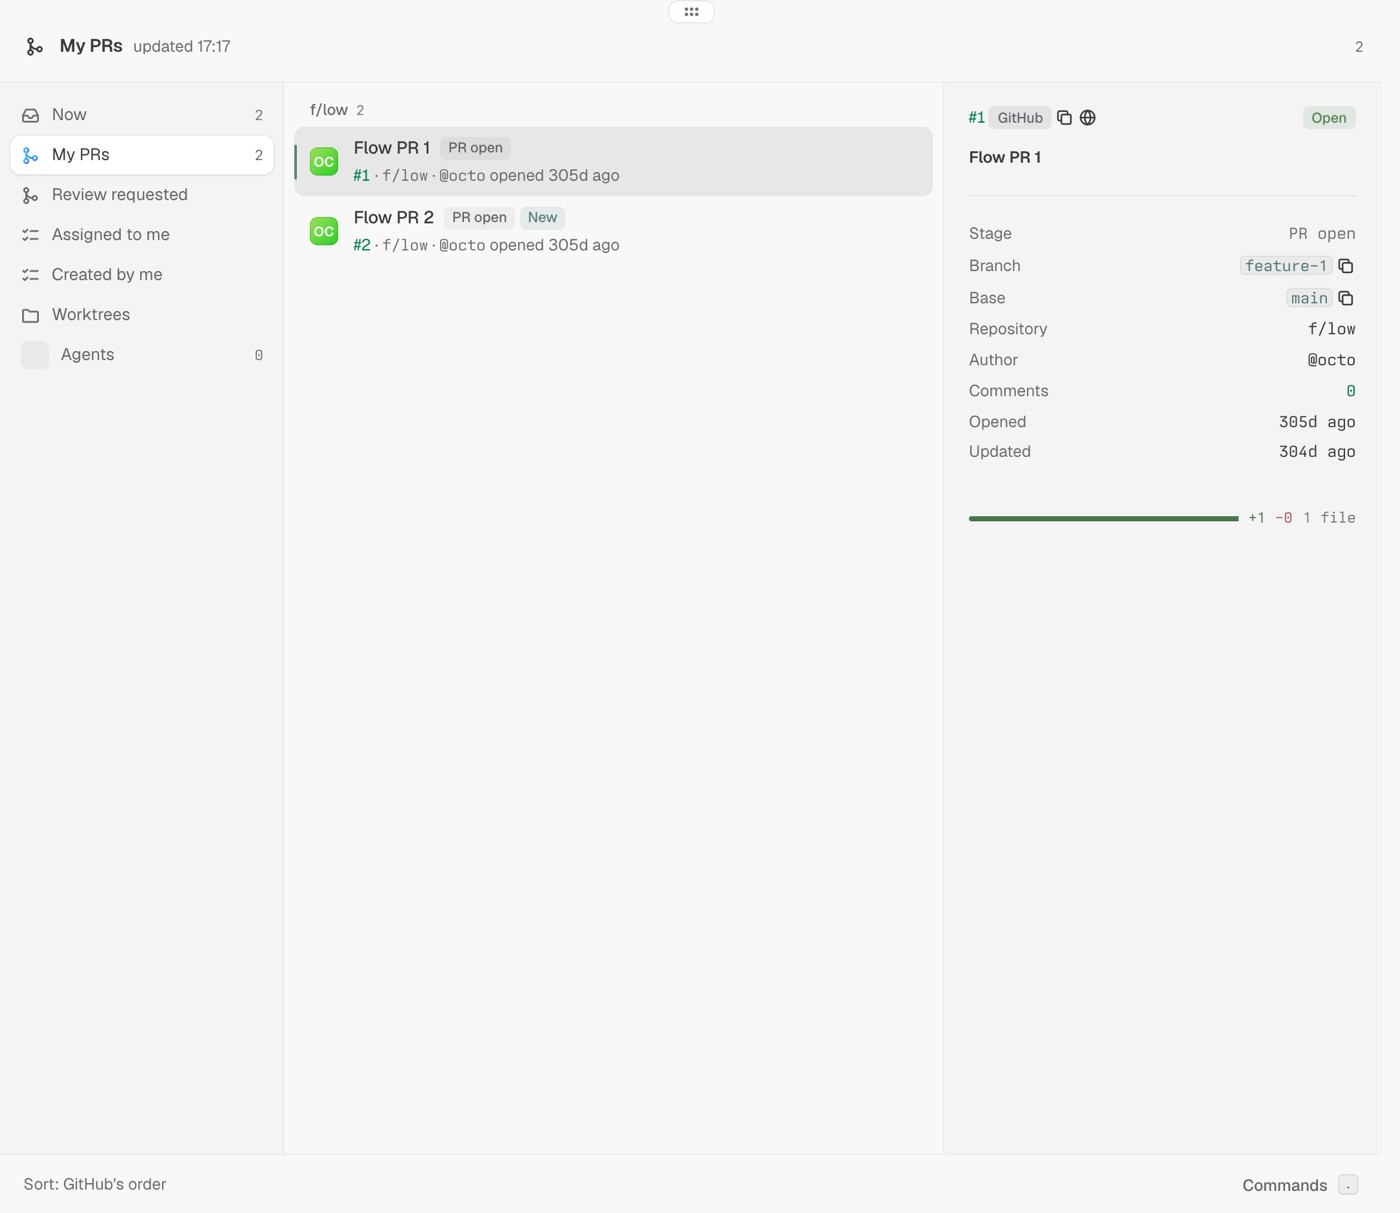
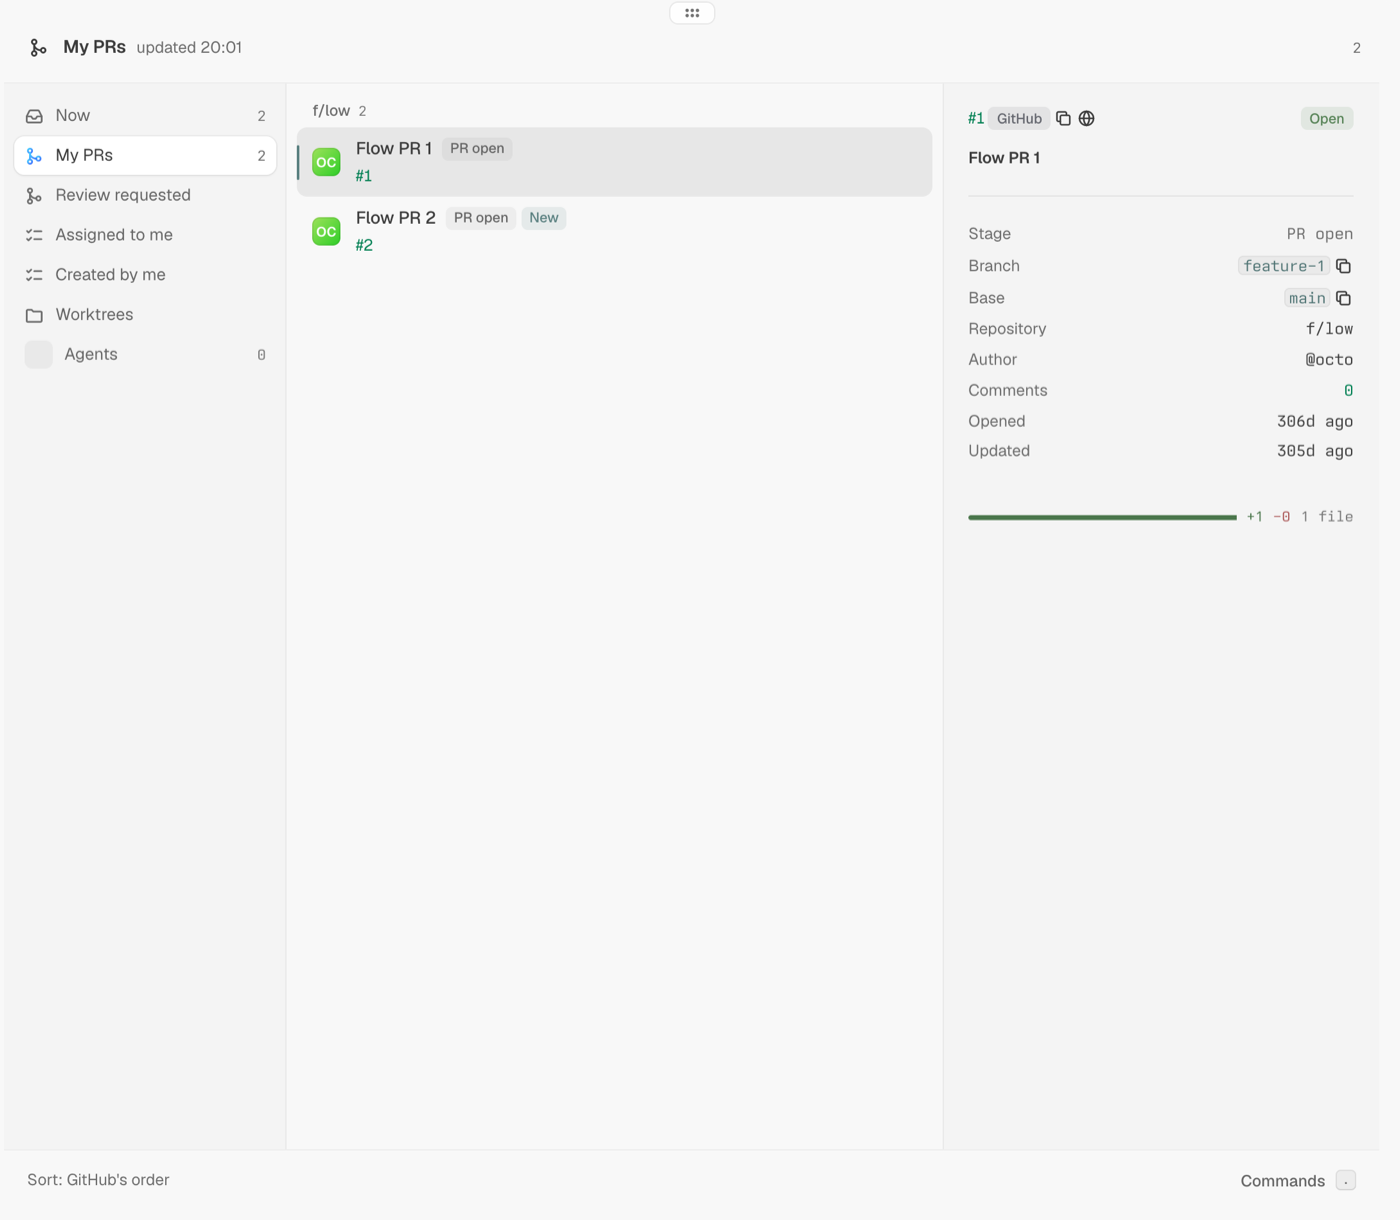
feat: queue rows show only what decides at the list level: one blocking reason, the repository only across repositories; age, labels, review, check counts and In tab are the preview's (tern-plotroom#yxak)

diff --git a/docs/reference.md b/docs/reference.md
@@ -70,7 +70,8 @@ Commands' item rows also offer **Copy link**, **Copy number** (`#N`, or the Jira
 
 ## Triage
 
-- **Every item shows its stage.** Each row's first badge, and the preview's first fact, is where the item stands, derived on every render from what GitHub, Jira, git and its agent already said (nothing about it is saved). Highest first: **Merged** or **Closed** (a Jira issue in a Done status is Closed); **Needs you** (its agent waits for input, or is idle after a turn whose end-of-run report says `stuck` or `needs-human`, whose outcome is Not verified, or whose check failed); **Agent working**; **Blocked** (a PR with changes requested, conflicts, or failing checks GitHub's merge state does not call optional; hovering says which); **Ready to merge** (approved, checks passing or none, and GitHub's merge state is clean); **PR open** (any other open PR, and an issue whose worktree branch has an open PR, known once its preview has loaded the details); **Worktree** (an issue with a Plotroom worktree and no PR; the badge takes the worktree's tone and summary); **Not started**. A merge state GitHub has not computed yet never makes Ready to merge. The stage replaces the row badges that said the same (Merged, a plain Closed, the Worktree badge of an item at Worktree, the Working and Needs input agent badges) and keeps In tab, New, Changed, Snoozed, Draft, why an issue closed and a Jira status.
+- **Every item shows its stage.** Each row's first badge, and the preview's first fact, is where the item stands, derived on every render from what GitHub, Jira, git and its agent already said (nothing about it is saved). Highest first: **Merged** or **Closed** (a Jira issue in a Done status is Closed); **Needs you** (its agent waits for input, or is idle after a turn whose end-of-run report says `stuck` or `needs-human`, whose outcome is Not verified, or whose check failed); **Agent working**; **Blocked** (a PR with changes requested, conflicts, or failing checks GitHub's merge state does not call optional; the row's detail says which); **Ready to merge** (approved, checks passing or none, and GitHub's merge state is clean); **PR open** (any other open PR, and an issue whose worktree branch has an open PR, known once its preview has loaded the details); **Worktree** (an issue with a Plotroom worktree and no PR; the badge takes the worktree's tone and summary); **Not started**. A merge state GitHub has not computed yet never makes Ready to merge. The stage replaces the row badges that said the same (Merged, a plain Closed, the Worktree badge of an item at Worktree, the Working and Needs input agent badges) and keeps New, Changed, Snoozed, Draft, why an issue closed and a Jira status.
+- **A row shows only what decides at the list level.** The title; the author once, as the mark on the left; the number (a Jira key), then the repository only when the view's rows span more than one; for a Blocked PR the one thing that blocks it (**Conflicts with its base**, else **Changes requested**, else **Checks failing**); a Jira issue's type. Badges: the stage, the agent's state when the stage does not say it, the run's checked outcome and the checker's verdict, **New**/**Changed**/**Snoozed**, **Worktree**, **Draft**, a Jira status or why an issue closed. The age, the review, check counts, labels and **In tab** are the preview's (its facts, Reviewers and Checks sections, and chips), so no fact is said twice in a row.
 - **The selected item suggests its next move.** Its stage picks one move, shown as the first Commands row under **Next** (named as the move) and as a button at the top of the preview, below the title: **Worktree** for a Not started issue; the **Review** action for someone else's open PR that asks for your review (as the view's login, by name; a team request does not count); **Go to agent** at Needs you or Agent working; at Blocked, the **Address feedback** action for your PR with changes requested, else **Re-run failed checks** while a run failed; **Merge…** at Ready to merge; **Ready for review…** for your draft PR; **Draft PR…** for an issue at Worktree; **Remove worktree…** for a Merged or Closed item that has a worktree. A move runs exactly as its own command does, its confirm included, and is offered only where that command is (an action only while it is offered under the view with that name). When nothing applies (an open PR waiting on others, a closed item with no worktree), nothing is shown. The queue action **Next move** runs it; it has no default key, and the one-key set binds it to `x`.
 - **Seen is automatic; snooze is local.** Each item shows **New** (never seen) or **Changed** (its state, title, review, checks, head, comments, labels or assignees differ from when it was last seen). An item is marked seen when it is selected and its preview is shown in a view, and again if a refresh changes it while it stays shown; a background fetch, Now and Worktrees never mark anything. **Mark seen** stays in Commands to do it by hand. **Snooze until tomorrow** holds an item until 08:00 local time on the next calendar day, even when it is still early morning (a **Snoozed** badge when listed with **Show or hide snoozed**). An agent waiting for input surfaces its item even when snoozed. Seen and snooze state is per machine (kv `triage`).
 - **Now and Show or hide snoozed survive a restart.** Both are saved with the pane and come back with it.

diff --git a/CHANGELOG.md b/CHANGELOG.md
@@ -36,6 +36,7 @@ All notable changes to Plotroom are recorded here. The format follows [Keep a Ch
 - Tern's palette lists only Plotroom: Open, Open item by URL, Message an agent with the selection… and Go to the first agent that needs input. Every other Plotroom command stays in Commands (`.`) with its key, and stays runnable by its action name `plugin.plotroom.<id>` (key binds, `tern ctl plugins run`).
 - README.md is a product page (who Plotroom is for, the loop, screenshots, install and first run); the full behavior spec moved, unchanged, to [docs/reference.md](docs/reference.md), ordered by the loop's steps.
 - UI text uses only PRODUCT.md's glossary: **Commands** (the `.` menu, its first group **Actions**), **Worktrees**, **Needs attention only**, **Snooze until tomorrow**, **Open** and **Open Git view**, and **Checkout** for the repository's main clone (an action's Runs in reads Worktree / Checkout; the shell lens offers Show in Plotroom, Copy, Open). Commands rows show an action's first line filled for the selected item, or no detail, never `{placeholders}`; the duplicate-agent offer names the action, not a pane; the protocol warning reads "Plotroom on <host> is a different version from this window's". Pickers say what Enter does; a GitHub view with no sort reads "Sort: GitHub's order"; the narrow layout's view dropdown no longer repeats the view's name as the title.
+- Queue rows show only what decides at the list level: the title, the author once (the mark), the number, the repository only when the view's rows span more than one, and for a Blocked pull request the one thing that blocks it (Conflicts with its base, Changes requested or Checks failing) in place of the review text and the `✓ ok/total` check count. The `@author` and age in the detail line, the labels and the In tab badge left the rows; the preview still shows each, and the Blocked badge no longer repeats its reason on hover.
 
 ## [0.33.0] - 2026-11-02
 

diff --git a/LEDGER.md b/LEDGER.md
@@ -41,6 +41,7 @@ Every feature, command, setting and surface, mapped to the loop step it serves (
 | Preview: description, facts, checks, merge state, reviewers | Preview | Keep | — | Approved | |
 | Preview: worktree card (Up to date, Changes, unpushed count) | Preview | Keep | — | Approved | |
 | Stage on every item, and the suggested next move | Rows, preview, Commands | New | 2 | Approved | PRODUCT.md › Glossary › Stage |
+| Picker rows: one field per Triage question. Keep: title (what is it?), author mark (mine to land or theirs to review?), number or Jira key (which one?), repository only when the view spans several (which codebase?), one blocking reason on a Blocked PR (what stops it?), stage (where does it stand?), agent state when the stage does not say it (is an agent on it?), outcome and checker verdict (did the run do what it claims?), New/Changed/Snoozed (has it changed since I looked?), Worktree (already started?), Draft (ready for review?), Jira status or closed reason (where in the team's workflow / done or dropped?), Jira type (bug or feature?). Cut to the preview: `@author` in the detail (the mark says it), age, review text, check counts, labels, In tab | Queue rows | Cut | 2 | Approved | Every field earns its place; no fact twice in a row (tern-plotroom#yxak) |
 | Now | Sidebar (default view), status bar | New | 2 | Approved | Replaces Inbox, the attention filter and the two counts |
 
 ## Dispatch
